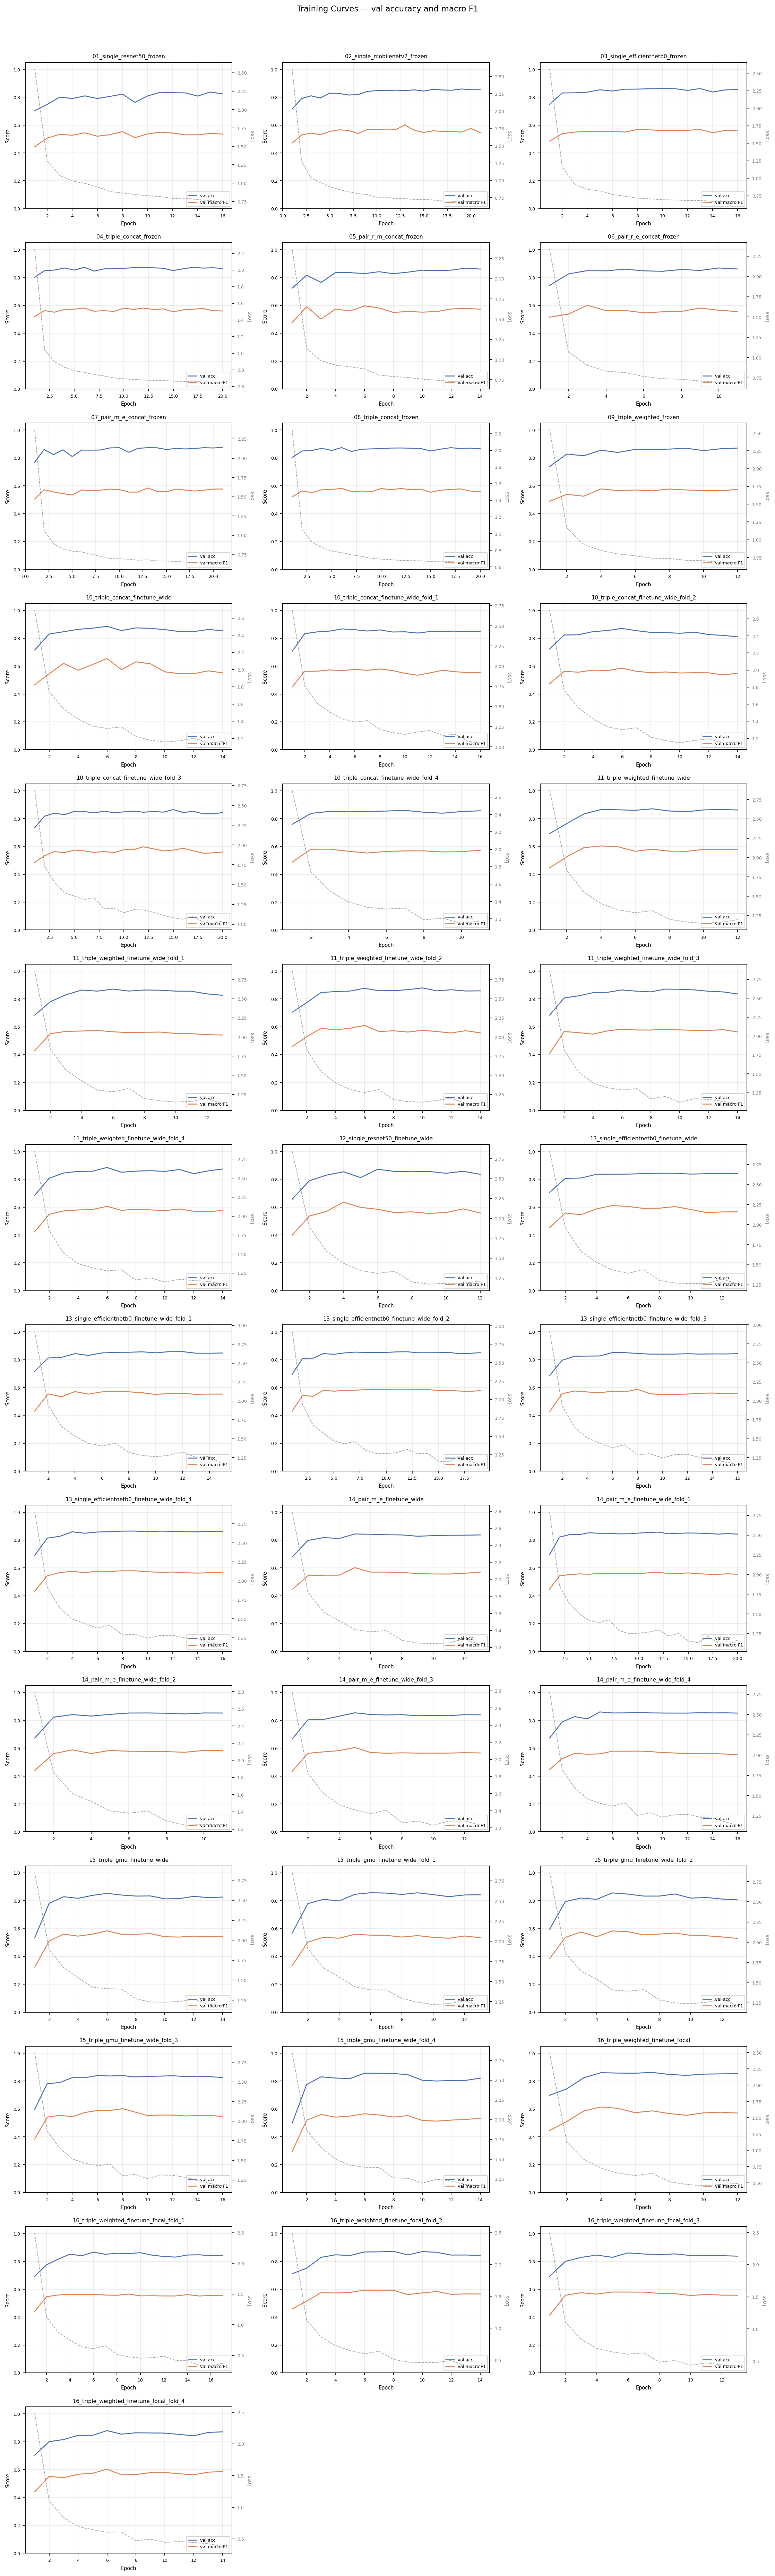
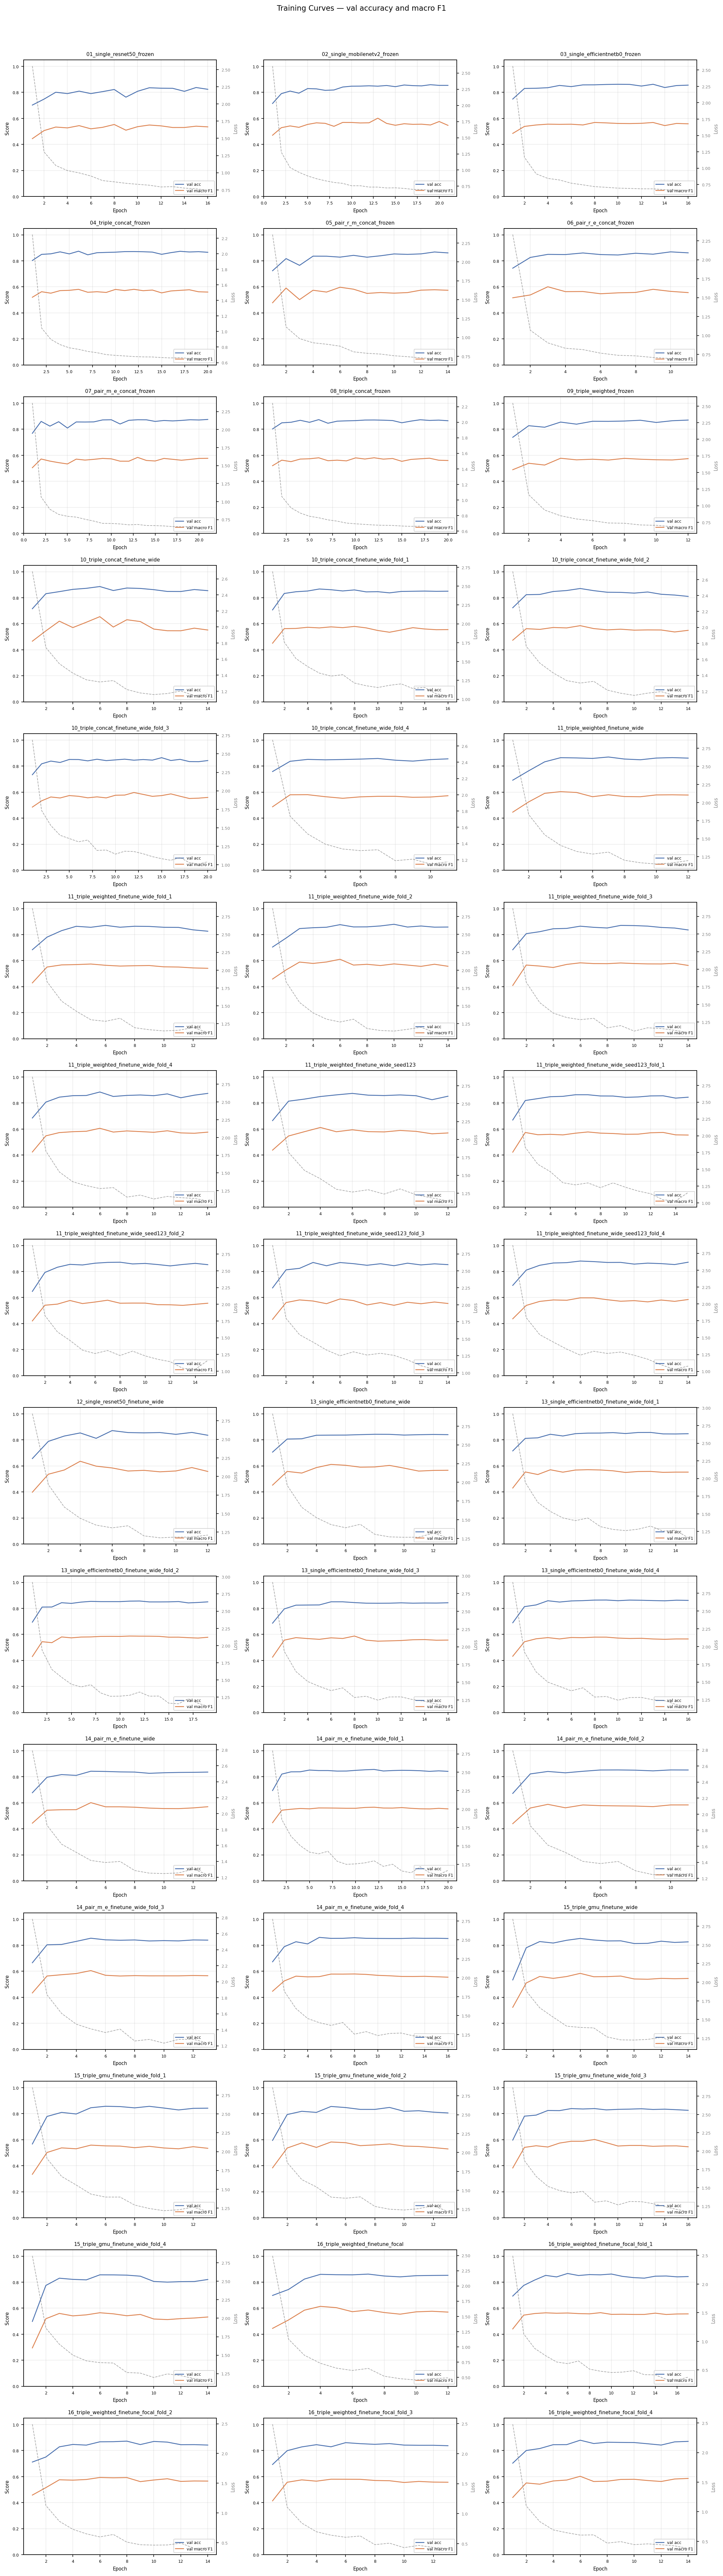
feat(week4): Track A — frozen-model report figures & tables
Week 4 Track A — final report figures and tables for the frozen model
(exp 11 triple weighted CE + TTA), generated INFERENCE-FREE from saved TTA
predictions / epoch logs. No training, no checkpoints loaded.

Adds scripts/analyze_frozen_model.py (reads predictions_tta.npz / epoch_log.jsonl
/ manifests only) producing:
- A1 results/figures/confusion_matrix_frozen_tta.png (23x23, pooled TTA, labelled)
- A2 results/tables/per_class_frozen_tta.csv/.md (Table 3) — pooled n=10,662,
     macro-F1 0.6075 (matches the frozen headline), rare classes (support <= 10)
     flagged; shows the rare-class ceiling (ileum/uc-1-2 F1=0.000, hemorroids 0.250)
- A3 results/tables/training_time.csv/.md (Table 4) — epochs-to-early-stop (from the
     final epoch_log entry; handles re-run appends) + APPROX wall-clock (epoch_log
     has no timestamps; fine-tune ~1.5 min/epoch RTX 5080, frozen = cached/fast)
- A4 results/figures/per_class_f1_frozen_tta.png (frozen pooled TTA, not single fold)
     + refreshed comparison_bar_chart.png

Validation: confusion matrix sums to 10,662 with trace/total = 0.8765 (= TTA
accuracy); per-class CSV matches an independent recompute exactly; Table 4 epochs
match the documented early-stop epochs. 176 tests pass.

Note: ablation_table refresh also picked up the seed-123 ensemble runs (extra rows);
the report uses the curated per-class/CI tables, not the raw ablation table.

diff --git a/scripts/analyze_frozen_model.py b/scripts/analyze_frozen_model.py
@@ -1,0 +1,191 @@
+"""Week 4 Track A — final report figures/tables for the FROZEN model.
+
+INFERENCE-FREE / DATA-ONLY: reads saved predictions (predictions_tta.npz),
+epoch logs (epoch_log.jsonl), and fold manifests. Never loads a checkpoint, runs
+the model, or trains.
+
+Produces, for the frozen model (exp 11 triple weighted CE + TTA, pooled n=10,662):
+  A1  results/figures/confusion_matrix_frozen_tta.png   (23x23, class-labelled)
+  A2  results/tables/per_class_frozen_tta.csv / .md     (Table 3, support, rare flagged)
+  A4  results/figures/per_class_f1_frozen_tta.png       (frozen pooled TTA, not single fold)
+  A3  results/tables/training_time.csv / .md            (Table 4: epochs + approx time)
+"""
+
+from __future__ import annotations
+
+import csv
+import json
+import sys
+from pathlib import Path
+
+import numpy as np
+from sklearn.metrics import confusion_matrix, precision_recall_fscore_support
+
+_ROOT = Path(__file__).resolve().parents[1]
+if str(_ROOT) not in sys.path:
+    sys.path.insert(0, str(_ROOT))
+
+import matplotlib  # noqa: E402
+matplotlib.use("Agg")
+
+from src.data.manifests import read_manifest_csv  # noqa: E402
+from src.evaluation.visualization import plot_confusion_matrix, plot_per_class_f1  # noqa: E402
+
+FROZEN_EXP = "11_triple_weighted_finetune_wide_official"
+NUM_CLASSES = 23
+RARE_SUPPORT = 10  # flag classes with pooled test support <= this
+
+# Approximate per-epoch wall-clock, marked APPROX in the table. Basis:
+#  - fine-tune (image, RTX 5080): ~1.5 min/epoch from seed-123 run timestamps.
+#  - frozen (cached features): seconds/epoch + a one-time ~3 min feature-cache build.
+FINETUNE_MIN_PER_EPOCH = 1.5
+FROZEN_NOTE = "fast (cached features; ~sec/epoch + one-time ~3 min cache build)"
+
+
+def fold_dir(exp: str, fold: int) -> Path:
+    return _ROOT / "results" / "runs" / (exp if fold == 0 else f"{exp}_fold_{fold}")
+
+
+def load_class_names() -> list[str]:
+    rows = read_manifest_csv(_ROOT / "data" / "splits" / "hyperkvasir_official_5fold" / "fold_0.csv")
+    mapping: dict[int, str] = {}
+    for r in rows:
+        mapping[int(r["label"])] = str(r["class_name"])
+    return [mapping[i] for i in range(NUM_CLASSES)]
+
+
+def load_pooled_tta() -> tuple[np.ndarray, np.ndarray]:
+    preds, labels = [], []
+    for f in range(5):
+        d = np.load(fold_dir(FROZEN_EXP, f) / "predictions_tta.npz")
+        preds.append(d["preds"])
+        labels.append(d["labels"])
+    return np.concatenate(preds), np.concatenate(labels)
+
+
+def a1_confusion_matrix(preds, labels, class_names) -> None:
+    cm = confusion_matrix(labels, preds, labels=list(range(NUM_CLASSES)))
+    out = _ROOT / "results" / "figures" / "confusion_matrix_frozen_tta.png"
+    plot_confusion_matrix(
+        cm.tolist(), class_names, out,
+        title="Confusion Matrix — frozen model (exp 11 + TTA, pooled 5-fold)",
+    )
+    print(f"[A1] {out}")
+
+
+def a2_per_class(preds, labels, class_names) -> dict:
+    p, r, f1, sup = precision_recall_fscore_support(
+        labels, preds, labels=list(range(NUM_CLASSES)), average=None, zero_division=0
+    )
+    rows = []
+    for i in range(NUM_CLASSES):
+        rows.append({
+            "label": i, "class_name": class_names[i],
+            "precision": round(float(p[i]), 4), "recall": round(float(r[i]), 4),
+            "f1": round(float(f1[i]), 4), "support": int(sup[i]),
+            "rare": "yes" if int(sup[i]) <= RARE_SUPPORT else "",
+        })
+    rows.sort(key=lambda x: x["support"])  # rare classes first
+
+    macro_f1 = float(np.mean(f1))
+    macro_p, macro_r = float(np.mean(p)), float(np.mean(r))
+
+    csv_path = _ROOT / "results" / "tables" / "per_class_frozen_tta.csv"
+    with csv_path.open("w", newline="", encoding="utf-8") as fh:
+        w = csv.DictWriter(fh, fieldnames=["label", "class_name", "precision", "recall", "f1", "support", "rare"])
+        w.writeheader()
+        w.writerows(rows)
+
+    md = ["# Table 3 — Per-class metrics (frozen model: exp 11 triple weighted CE + TTA)",
+          "", f"Pooled official 5-fold test set, n={len(labels)}. "
+          f"Macro: P={macro_p:.4f} R={macro_r:.4f} **F1={macro_f1:.4f}**. "
+          f"Rare = pooled support ≤ {RARE_SUPPORT}.", "",
+          "| Class | Precision | Recall | F1 | Support | Rare |",
+          "|---|---:|---:|---:|---:|:--:|"]
+    for x in rows:
+        md.append(f"| {x['class_name']} | {x['precision']:.3f} | {x['recall']:.3f} | "
+                  f"{x['f1']:.3f} | {x['support']} | {'⚠️' if x['rare'] else ''} |")
+    md.append(f"| **macro avg** | **{macro_p:.4f}** | **{macro_r:.4f}** | **{macro_f1:.4f}** | {len(labels)} | |")
+    (_ROOT / "results" / "tables" / "per_class_frozen_tta.md").write_text("\n".join(md), encoding="utf-8")
+
+    print(f"[A2] results/tables/per_class_frozen_tta.csv/.md  (macro-F1={macro_f1:.4f}, "
+          f"rare classes={sum(1 for x in rows if x['rare'])})")
+    return {str(x["label"]): {"f1": x["f1"], "support": x["support"]} for x in rows}
+
+
+def a4_per_class_chart(per_class, class_names) -> None:
+    out = _ROOT / "results" / "figures" / "per_class_f1_frozen_tta.png"
+    plot_per_class_f1(per_class, class_names, out,
+                      title="Per-class F1 — frozen model (exp 11 + TTA, pooled 5-fold)")
+    print(f"[A4] {out}")
+
+
+def a3_training_time() -> None:
+    # epochs-to-early-stop = epoch_log line count (precise). Wall-clock is APPROX.
+    specs = [
+        ("01_single_resnet50_frozen_official", "ResNet50", "—", "frozen"),
+        ("03_single_efficientnetb0_frozen_official", "EfficientNetB0", "—", "frozen"),
+        ("07_pair_m_e_concat_frozen_official", "M+E", "concat", "frozen"),
+        ("09_triple_weighted_frozen_official", "R+M+E", "weighted", "frozen"),
+        ("13_single_efficientnetb0_finetune_wide_official", "EfficientNetB0", "—", "finetune-3blk"),
+        ("14_pair_m_e_finetune_wide_official", "M+E", "concat", "finetune-3blk"),
+        ("10_triple_concat_finetune_wide_official", "R+M+E", "concat", "finetune-3blk"),
+        ("11_triple_weighted_finetune_wide_official", "R+M+E", "weighted", "finetune-3blk"),
+        ("15_triple_gmu_finetune_wide_official", "R+M+E", "GMU", "finetune-3blk"),
+    ]
+    rows = []
+    for exp, backbones, fusion, mode in specs:
+        log = fold_dir(exp, 0) / "epoch_log.jsonl"
+        # Use the FINAL entry's `epoch` field, not the line count: some logs were
+        # appended across re-runs (e.g. exp 10 has 44 lines but last epoch=14).
+        epochs = None
+        if log.exists():
+            last = None
+            for line in log.open(encoding="utf-8"):
+                if line.strip():
+                    last = line
+            if last:
+                epochs = int(json.loads(last)["epoch"])
+        if epochs is None:
+            approx = "n/a"
+        elif mode == "frozen":
+            approx = FROZEN_NOTE
+        else:
+            approx = f"~{epochs * FINETUNE_MIN_PER_EPOCH:.0f} min/fold (APPROX, ~{FINETUNE_MIN_PER_EPOCH} min/epoch, RTX 5080)"
+        rows.append({"experiment": exp, "backbones": backbones, "fusion": fusion,
+                     "mode": mode, "epochs_to_early_stop_fold0": epochs, "approx_walltime": approx})
+
+    csv_path = _ROOT / "results" / "tables" / "training_time.csv"
+    with csv_path.open("w", newline="", encoding="utf-8") as fh:
+        w = csv.DictWriter(fh, fieldnames=["experiment", "backbones", "fusion", "mode",
+                                           "epochs_to_early_stop_fold0", "approx_walltime"])
+        w.writeheader()
+        w.writerows(rows)
+
+    md = ["# Table 4 — Training cost (epochs to early-stop + approximate wall-clock)",
+          "", "Epochs = final epoch_log.jsonl entry, fold 0 (handles re-run appends). "
+          "Wall-clock is APPROXIMATE — "
+          "epoch_log has no timestamps; fine-tune ≈ 1.5 min/epoch from observed RTX 5080 "
+          "run timestamps, frozen uses cached features (seconds/epoch + one-time cache).", "",
+          "| Experiment | Backbones | Fusion | Mode | Epochs→stop (fold 0) | Approx wall-clock |",
+          "|---|---|---|---|---:|---|"]
+    for x in rows:
+        md.append(f"| {x['experiment']} | {x['backbones']} | {x['fusion']} | {x['mode']} | "
+                  f"{x['epochs_to_early_stop_fold0']} | {x['approx_walltime']} |")
+    (_ROOT / "results" / "tables" / "training_time.md").write_text("\n".join(md), encoding="utf-8")
+    print(f"[A3] results/tables/training_time.csv/.md  ({len(rows)} configs)")
+
+
+def main() -> None:
+    class_names = load_class_names()
+    preds, labels = load_pooled_tta()
+    assert len(labels) == 10662, f"expected pooled n=10662, got {len(labels)}"
+    print(f"Frozen pooled TTA: n={len(labels)}, classes={len(set(labels.tolist()))}")
+    a1_confusion_matrix(preds, labels, class_names)
+    per_class = a2_per_class(preds, labels, class_names)
+    a4_per_class_chart(per_class, class_names)
+    a3_training_time()
+
+
+if __name__ == "__main__":
+    main()

diff --git a/results/tables/per_class_frozen_tta.md b/results/tables/per_class_frozen_tta.md
@@ -1,0 +1,30 @@
+# Table 3 — Per-class metrics (frozen model: exp 11 triple weighted CE + TTA)
+
+Pooled official 5-fold test set, n=10662. Macro: P=0.6162 R=0.6158 **F1=0.6075**. Rare = pooled support ≤ 10.
+
+| Class | Precision | Recall | F1 | Support | Rare |
+|---|---:|---:|---:|---:|:--:|
+| hemorroids | 0.500 | 0.167 | 0.250 | 6 | ⚠️ |
+| ileum | 0.000 | 0.000 | 0.000 | 9 | ⚠️ |
+| ulcerative-colitis-grade-1-2 | 0.000 | 0.000 | 0.000 | 11 |  |
+| ulcerative-colitis-grade-2-3 | 0.071 | 0.107 | 0.086 | 28 |  |
+| ulcerative-colitis-grade-0-1 | 0.368 | 0.200 | 0.259 | 35 |  |
+| barretts | 0.116 | 0.195 | 0.145 | 41 |  |
+| short-segment-barretts | 0.086 | 0.170 | 0.115 | 53 |  |
+| impacted-stool | 0.668 | 0.985 | 0.796 | 131 |  |
+| ulcerative-colitis-grade-3 | 0.563 | 0.669 | 0.612 | 133 |  |
+| ulcerative-colitis-grade-1 | 0.519 | 0.483 | 0.500 | 201 |  |
+| oesophagitis-b-d | 0.651 | 0.769 | 0.706 | 260 |  |
+| retroflex-rectum | 0.916 | 0.982 | 0.948 | 391 |  |
+| oesophagitis-a | 0.521 | 0.365 | 0.429 | 403 |  |
+| ulcerative-colitis-grade-2 | 0.690 | 0.603 | 0.643 | 443 |  |
+| bbps-0-1 | 0.980 | 0.968 | 0.974 | 646 |  |
+| retroflex-stomach | 0.992 | 0.988 | 0.990 | 764 |  |
+| normal-z-line | 0.836 | 0.825 | 0.831 | 932 |  |
+| dyed-resection-margins | 0.912 | 0.913 | 0.913 | 989 |  |
+| normal-pylorus | 0.967 | 0.997 | 0.982 | 999 |  |
+| dyed-lifted-polyps | 0.914 | 0.913 | 0.914 | 1002 |  |
+| normal-cecum | 0.932 | 0.988 | 0.959 | 1009 |  |
+| polyp | 0.977 | 0.936 | 0.956 | 1028 |  |
+| bbps-2-3 | 0.992 | 0.943 | 0.967 | 1148 |  |
+| **macro avg** | **0.6162** | **0.6158** | **0.6075** | 10662 | |

diff --git a/docs/results_progress.md b/docs/results_progress.md
@@ -436,6 +436,25 @@ inference recipe) in [`docs/FINAL_MODEL.md`](FINAL_MODEL.md). Week 4 builds on t
 ## Week 4 — Analysis and Report
 *Planned: ~2026-06-01 to 2026-06-04*
 
+### Track A — final figures & tables for the frozen model (2026-06-08)
+
+Generated inference-free from the frozen model's saved TTA predictions / logs
+(`scripts/analyze_frozen_model.py`; no training):
+
+| Artifact | Path | Notes |
+|---|---|---|
+| Confusion matrix (A1) | `results/figures/confusion_matrix_frozen_tta.png` | 23×23, pooled TTA, class-labelled |
+| Table 3 — per-class P/R/F1/support (A2) | `results/tables/per_class_frozen_tta.csv` / `.md` | pooled n=10,662; macro-F1 **0.6075** (matches frozen headline); rare classes (support ≤ 10) flagged |
+| Table 4 — training cost (A3) | `results/tables/training_time.csv` / `.md` | epochs-to-early-stop (exact, from final epoch_log entry) + APPROX wall-clock |
+| Per-class F1 chart (A4) | `results/figures/per_class_f1_frozen_tta.png` | from frozen pooled TTA (not single fold) |
+| Comparison bar chart (A4) | `results/figures/comparison_bar_chart.png` | refreshed over all experiments |
+
+Per-class story (Table 3): the macro-F1 ceiling is driven by rare classes — e.g.
+`ileum` (support 9) and `ulcerative-colitis-grade-1-2` (11) score F1=0.000;
+`hemorroids` (6) F1=0.250 — while common classes (impacted-stool 0.796, etc.)
+are strong. Confirms the data-scarcity ceiling, not a model defect.
+
+
 ### Planned milestones
 
 - Confusion matrix for best model

diff --git a/results/tables/training_time.md b/results/tables/training_time.md
@@ -1,0 +1,15 @@
+# Table 4 — Training cost (epochs to early-stop + approximate wall-clock)
+
+Epochs = final epoch_log.jsonl entry, fold 0 (handles re-run appends). Wall-clock is APPROXIMATE — epoch_log has no timestamps; fine-tune ≈ 1.5 min/epoch from observed RTX 5080 run timestamps, frozen uses cached features (seconds/epoch + one-time cache).
+
+| Experiment | Backbones | Fusion | Mode | Epochs→stop (fold 0) | Approx wall-clock |
+|---|---|---|---|---:|---|
+| 01_single_resnet50_frozen_official | ResNet50 | — | frozen | 16 | fast (cached features; ~sec/epoch + one-time ~3 min cache build) |
+| 03_single_efficientnetb0_frozen_official | EfficientNetB0 | — | frozen | 16 | fast (cached features; ~sec/epoch + one-time ~3 min cache build) |
+| 07_pair_m_e_concat_frozen_official | M+E | concat | frozen | 21 | fast (cached features; ~sec/epoch + one-time ~3 min cache build) |
+| 09_triple_weighted_frozen_official | R+M+E | weighted | frozen | 12 | fast (cached features; ~sec/epoch + one-time ~3 min cache build) |
+| 13_single_efficientnetb0_finetune_wide_official | EfficientNetB0 | — | finetune-3blk | 13 | ~20 min/fold (APPROX, ~1.5 min/epoch, RTX 5080) |
+| 14_pair_m_e_finetune_wide_official | M+E | concat | finetune-3blk | 13 | ~20 min/fold (APPROX, ~1.5 min/epoch, RTX 5080) |
+| 10_triple_concat_finetune_wide_official | R+M+E | concat | finetune-3blk | 14 | ~21 min/fold (APPROX, ~1.5 min/epoch, RTX 5080) |
+| 11_triple_weighted_finetune_wide_official | R+M+E | weighted | finetune-3blk | 12 | ~18 min/fold (APPROX, ~1.5 min/epoch, RTX 5080) |
+| 15_triple_gmu_finetune_wide_official | R+M+E | GMU | finetune-3blk | 14 | ~21 min/fold (APPROX, ~1.5 min/epoch, RTX 5080) |

diff --git a/results/tables/ablation_table.md b/results/tables/ablation_table.md
@@ -23,6 +23,11 @@ _Auto-generated by `scripts/generate_report_tables.py`. All numbers from `result
 | `11_triple_weighted_finetune_wide_official_fold_2` | resnet50, mobilenetv2, efficientnetb0 | weighted | finetune-3blk | 2 | 0.8746 | 0.5829 | 0.5907 | 0.5929 | 14 |
 | `11_triple_weighted_finetune_wide_official_fold_3` | resnet50, mobilenetv2, efficientnetb0 | weighted | finetune-3blk | 3 | 0.8737 | 0.5860 | 0.5863 | 0.5997 | 14 |
 | `11_triple_weighted_finetune_wide_official_fold_4` | resnet50, mobilenetv2, efficientnetb0 | weighted | finetune-3blk | 4 | 0.8726 | 0.6005 | 0.6109 | 0.6111 | 14 |
+| `11_triple_weighted_finetune_wide_official_seed123` | resnet50, mobilenetv2, efficientnetb0 | weighted | finetune-3blk | 0 | 0.8530 | 0.5779 | 0.5858 | 0.5923 | 12 |
+| `11_triple_weighted_finetune_wide_official_seed123_fold_1` | resnet50, mobilenetv2, efficientnetb0 | weighted | finetune-3blk | 1 | 0.8610 | 0.5720 | 0.5706 | 0.6014 | 15 |
+| `11_triple_weighted_finetune_wide_official_seed123_fold_2` | resnet50, mobilenetv2, efficientnetb0 | weighted | finetune-3blk | 2 | 0.8746 | 0.5749 | 0.5923 | 0.5885 | 15 |
+| `11_triple_weighted_finetune_wide_official_seed123_fold_3` | resnet50, mobilenetv2, efficientnetb0 | weighted | finetune-3blk | 3 | 0.8643 | 0.5852 | 0.5837 | 0.5990 | 14 |
+| `11_triple_weighted_finetune_wide_official_seed123_fold_4` | resnet50, mobilenetv2, efficientnetb0 | weighted | finetune-3blk | 4 | 0.8675 | 0.5793 | 0.5978 | 0.5827 | 14 |
 | `12_single_resnet50_finetune_wide_official` | resnet50 | none | finetune-3blk | 0 | 0.8501 | 0.5748 | 0.5690 | 0.5995 | 12 |
 | `13_single_efficientnetb0_finetune_wide_official` | efficientnetb0 | none | finetune-3blk | 0 | 0.8355 | 0.5539 | 0.5691 | 0.5716 | 13 |
 | `13_single_efficientnetb0_finetune_wide_official_fold_1` | efficientnetb0 | none | finetune-3blk | 1 | 0.8605 | 0.5981 | 0.5849 | 0.6512 | 15 |